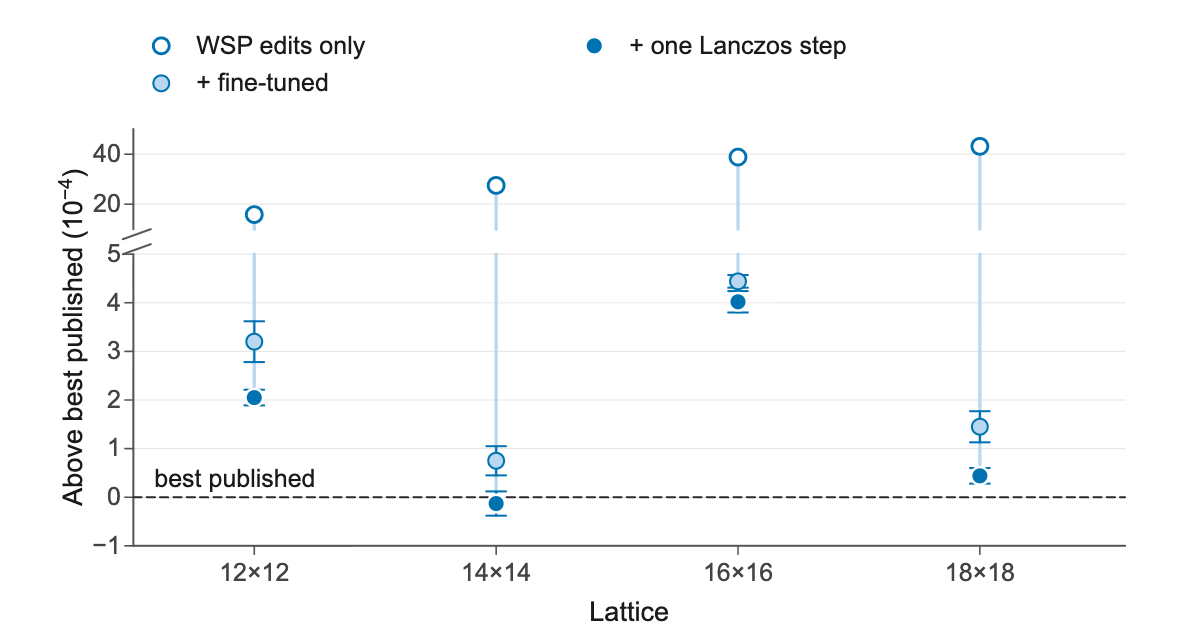
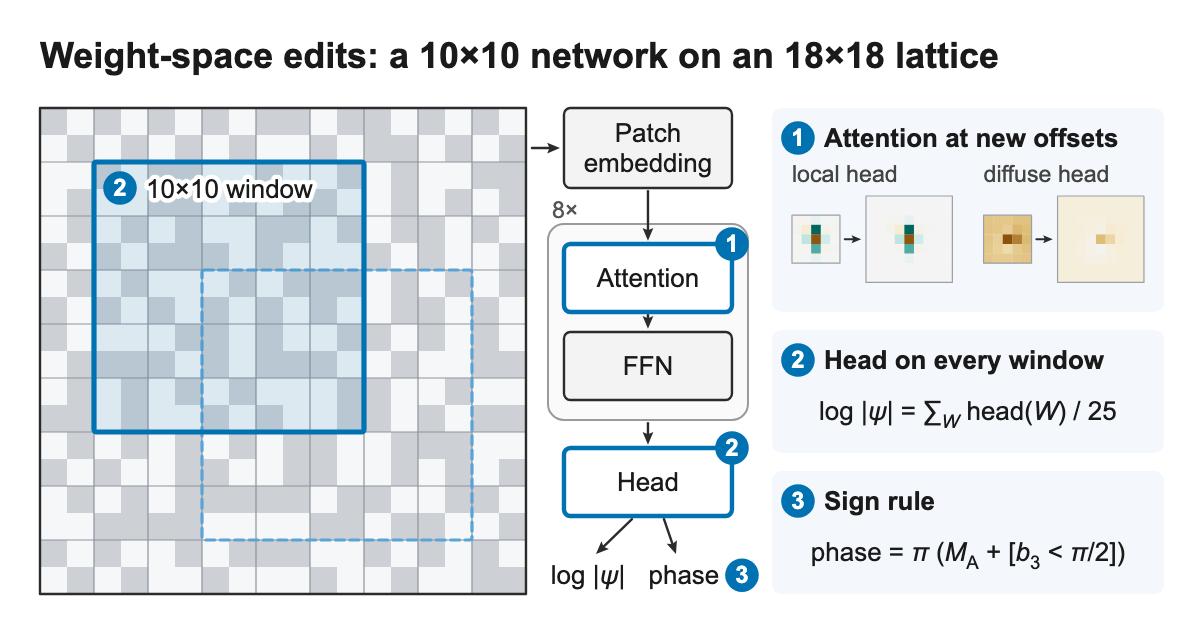
Quantum post social card: network-surgery card (from the figure's panel a) replaces the panel d plot; alt text updated

diff --git a/docs/_posts/2026-11-04-quantum-weight-space.md b/docs/_posts/2026-11-04-quantum-weight-space.md
@@ -6,7 +6,7 @@ excerpt: >-
   Working with Opus to diagnose and repair a neural quantum state's transfer from
   a 10×10 spin lattice to larger lattices, then fine-tune it to competitive energies.
 social_image: /assets/quantum-weight-space/social.png
-image_alt: Energy per site above the best published values at four lattice sizes, with WSP edits, fine-tuning, and one Lanczos step
+image_alt: The three weight-space edits that run a 10×10 network on an 18×18 lattice - attention at new offsets, the head on every 10×10 window, and the sign rule
 ---
 
 I've been looking for an excuse to explore neural quantum states (NQS).
